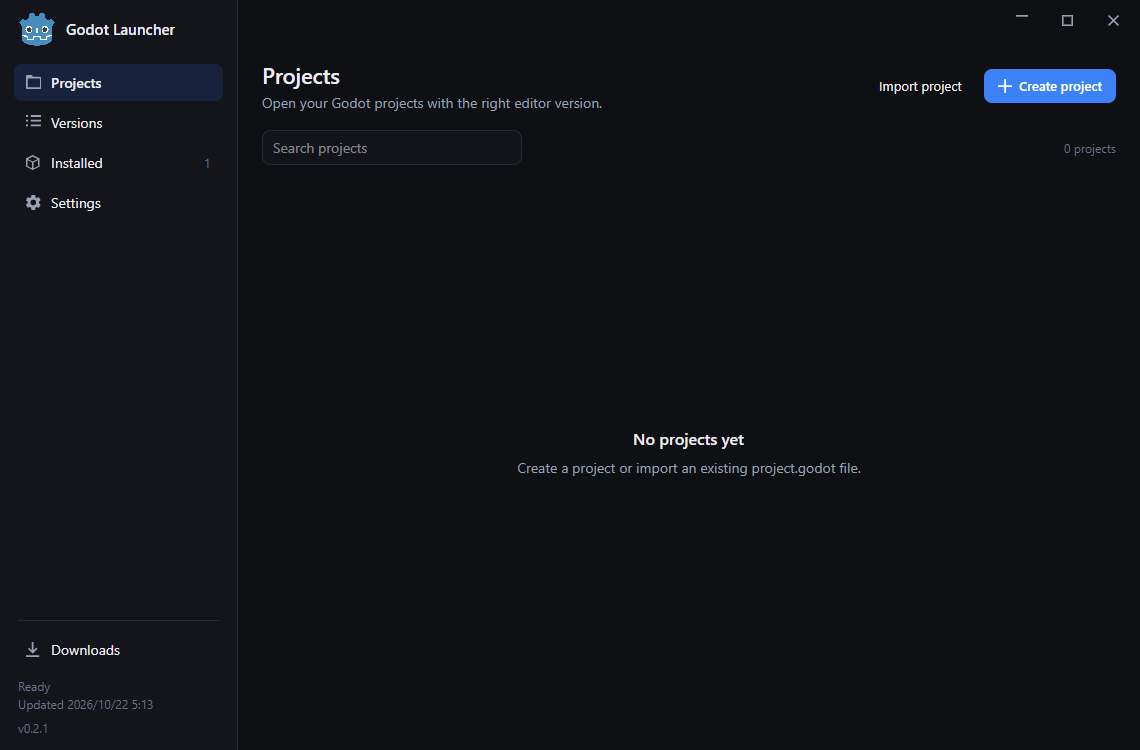
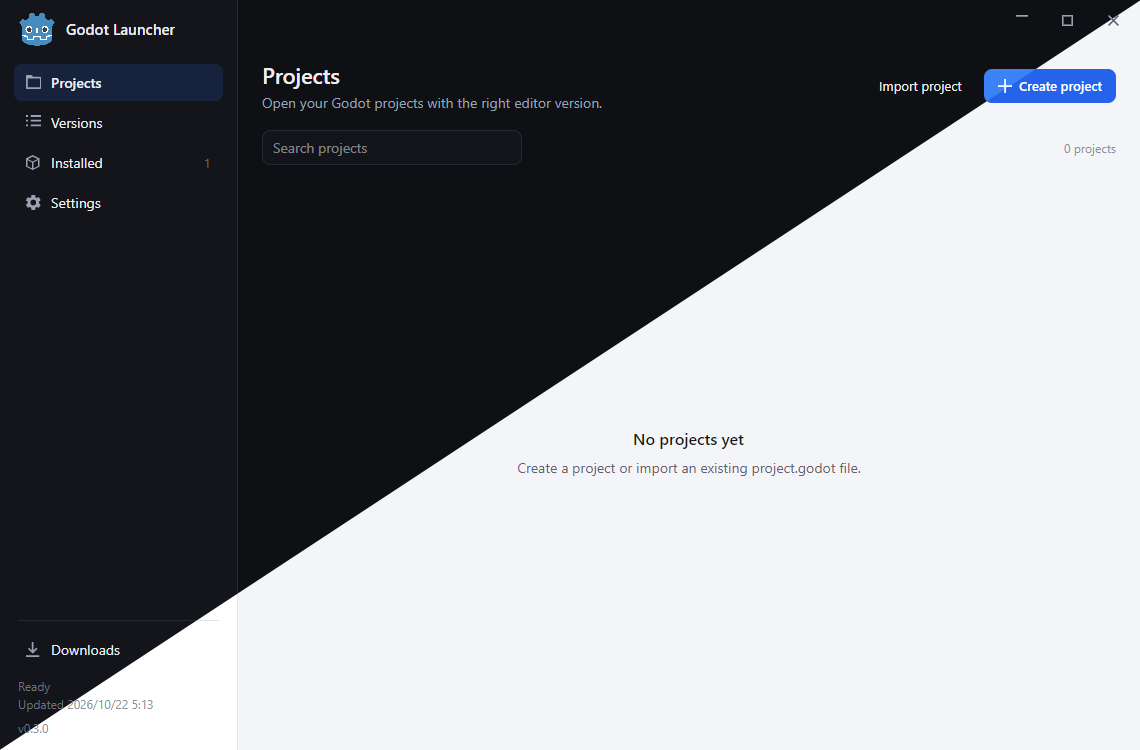
docs: Update README.

diff --git a/README.zh-CN.md b/README.zh-CN.md
@@ -1,16 +1,16 @@
-# Godot 启动器
+![项目页（深色主题）](docs/images/projects.png)
 
 <p align="center">
-  <a href="README.md">ENGLISH</a> | 中文
+  ENGLISH | <a href="README.zh-CN.md">中文</a>
 </p>
 
 <p align="center">
   <a href="https://github.com/Shaun-Fong/GodotLauncher/actions/workflows/build.yml"><img src="https://github.com/Shaun-Fong/GodotLauncher/actions/workflows/build.yml/badge.svg" alt="build" /></a>
 </p>
 
-一个面向 Windows、Linux 和 macOS 的轻量、快速的 [Godot Engine](https://godotengine.org/) 桌面启动器。
-
-![项目页（深色主题）](docs/images/projects.png)
+<p align="center">
+一个面向 Windows、Linux 和 macOS 的轻量、快速的 <a href="https://godotengine.org/">Godot Engine</a> 桌面启动器。
+</p>
 
 ## 功能
 
@@ -38,8 +38,6 @@
   同一设置；刷新失败时显示非阻塞提示，并提供跳转到网络设置的入口。
 - **启动器更新** —— 从 GitHub Releases 检查新版本，下载与当前平台匹配的安装包，并重启完成更新。
 - **可编辑配置** —— 人类可读的 TOML 配置、原子写入；配置损坏时会自动备份并重建，而不是崩溃。
-
-![版本页（亮色主题）](docs/images/explore-light.png)
 
 ## 下载
 

diff --git a/README.md b/README.md
@@ -1,4 +1,4 @@
-# Godot Launcher
+![Projects page in the dark theme](docs/images/projects.png)
 
 <p align="center">
   ENGLISH | <a href="README.zh-CN.md">中文</a>
@@ -8,9 +8,9 @@
   <a href="https://github.com/Shaun-Fong/GodotLauncher/actions/workflows/build.yml"><img src="https://github.com/Shaun-Fong/GodotLauncher/actions/workflows/build.yml/badge.svg" alt="build" /></a>
 </p>
 
-A fast, small desktop launcher for [Godot Engine](https://godotengine.org/) on Windows, Linux and macOS.
-
-![Projects page in the dark theme](docs/images/projects.png)
+<p align="center">
+A fast, small desktop launcher for <a href="https://godotengine.org/">Godot Engine</a> on Windows, Linux and macOS.
+</p>
 
 ## Features
 
@@ -48,8 +48,6 @@ A fast, small desktop launcher for [Godot Engine](https://godotengine.org/) on W
   current platform, and restarts itself to install the new version.
 - **Portable settings** — human-editable TOML configuration, atomic writes, corrupt files backed up
   instead of crashing.
-
-![Versions page in the light theme](docs/images/explore-light.png)
 
 ## Download
 
